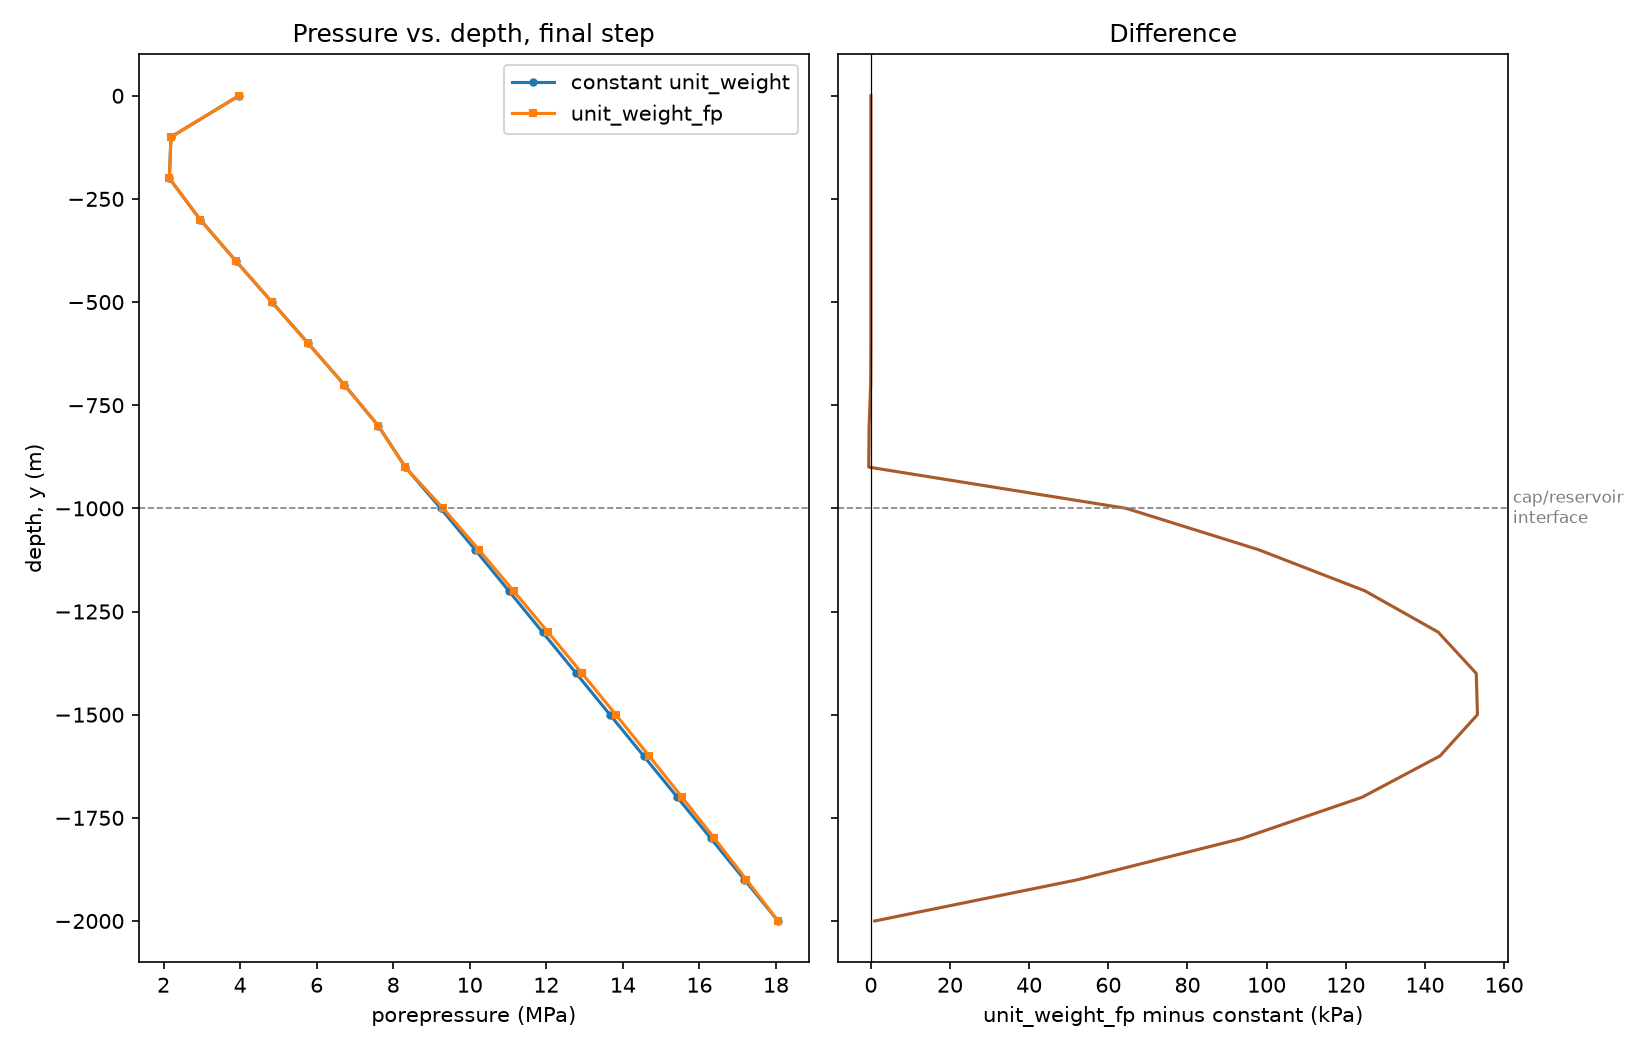
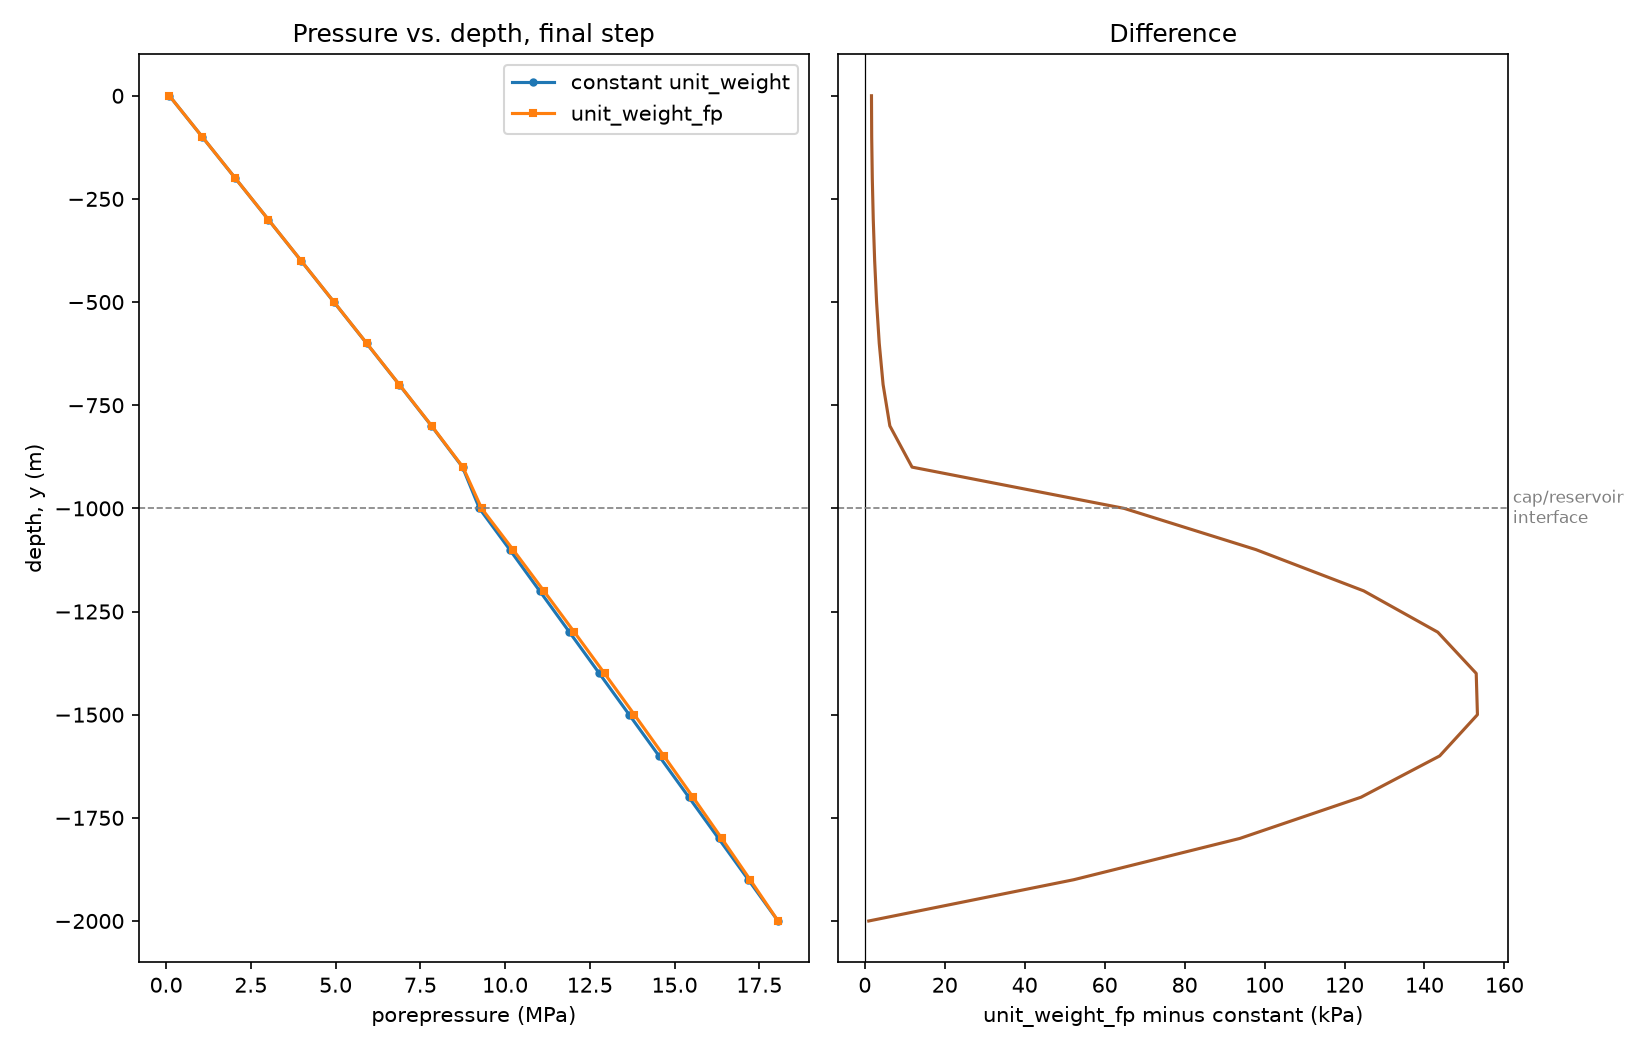
Use realistic cap material properties, rewrite Results accordingly
Replace the cap's deliberately exaggerated properties with realistic
geologic values: permeability 1E-16 m^2 (was 1E-19), porosity 0.1 (was
0.05), isotropic thermal conductivity 2.5 W/m/K (was anisotropic,
vertical exaggerated to 10), and rock specific heat 800 J/kg/K (was
80, now matching the reservoir). The reservoir's own permeability
stays at 1E-15 m^2 (a modest 10x below typical, kept so the well's
pressure influence doesn't diffuse across the whole domain within the
runnable 5-year timescale).

heat_transfer_coefficient goes from 0.01 to 1.5 W/m^2/K, a realistic
casing-resistance estimate. At the old, deliberately very low cap
permeability, any h above ~0.1 thermally pressurized the trapped pore
fluid and diverged; at this permeability that specific failure mode no
longer binds, but a separate numerical wall exists around day 156 of
the run above h~1.5-1.8 (confirmed by bisection; raising nl_max_its
does not rescue it), so 1.5 stays just below it.

The realistic cap permeability has a much bigger consequence than
either of the above: it lets the well's own pressure drawdown drive
real advective flow up through the cap, which now dominates the
thermal response there (~67K surface rise over 5 years, vs ~6K before)
far more than the conductive kernel's own contribution (~6.6% of
advected heat). Rewrote the Results section, the schematic's cap
label, and the class doc's h discussion to reflect this - the cased
[…]

diff --git a/examples/geothermal_wellbore/make_schematic.py b/examples/geothermal_wellbore/make_schematic.py
@@ -27,7 +27,7 @@ def main():
     ax.add_patch(patches.Rectangle((0, Y_BOTTOM), R_MAX, Y_INTERFACE - Y_BOTTOM,
                                     facecolor="#a3c4d8", edgecolor="none", zorder=0))
     ax.text(R_MAX * 0.38, (Y_SURFACE + Y_INTERFACE) / 2,
-            "cap\n(low permeability,\nexaggerated thermal response)",
+            "cap\n(realistic properties:\nk=1E-16 m^2, k_th=2.5 W/m/K)",
             ha="center", va="center", fontsize=10)
     ax.text(R_MAX * 0.5, Y_INTERFACE - 150, "reservoir\n(normal geologic media)",
             ha="center", va="center", fontsize=10)

diff --git a/doc/content/examples/geothermal_wellbore.md b/doc/content/examples/geothermal_wellbore.md
@@ -88,16 +88,19 @@ depending on whether mass can actually cross the well wall there:
   [PorousFlowCasedBoreholeHeatExchange.md] for why.
 
   $h$ represents the casing's own thermal resistance (steel, cement, the in-well film), not the
-  formation's, which is already resolved by the mesh, and is deliberately kept small
-  (0.01 $\mathrm{W/m^2/K}$, well below a nominal casing-resistance estimate) for a reason
-  specific to this example: the cap's permeability is set very low precisely so the well's
-  pressure influence stays confined to a small halo, and heat injected into a low-permeability
-  rock thermally pressurizes the trapped pore fluid instead of relieving via flow. Above roughly
-  0.1 $\mathrm{W/m^2/K}$ that pressurization runs away and the simulation fails to converge,
-  regardless of how small a fraction of the advected heat rate $Q_{\mathrm{adv}}$ it represents.
-  The resulting conductive exchange is real but small - about 0.08% of the advected heat rate -
-  a real effect, not a dominant one; see [geothermal_wellbore_cap_temperature_fig] for where it
-  shows up.
+  formation's, which is already resolved by the mesh, and is set to a realistic estimate of
+  1.5 $\mathrm{W/m^2/K}$. An earlier revision of this example used a deliberately very low cap
+  permeability, under which heat injected here could not relieve via flow and instead thermally
+  pressurized the trapped pore fluid, running away above $h \sim 0.1$; at the realistic cap
+  permeability used now (see [#model-setup]), that specific failure mode no longer binds. A
+  separate numerical limit remains, unrelated to pressurization: above roughly
+  $h \sim 1.5\text{-}1.8\ \mathrm{W/m^2/K}$, the simulation stalls around day 156 of the run
+  (confirmed by bisection; raising the solver's iteration limit does not rescue it), so 1.5 stays
+  just below that wall. The resulting conductive exchange totals about 6.6% of the advected heat
+  rate $Q_{\mathrm{adv}}$ over the run - real, but secondary to a much larger effect: at this
+  permeability, the cap itself is porous enough for the well's own pressure drawdown to drive
+  significant advective flow up through it, which dominates the temperature changes shown in
+  [#results] far more than this conductive term does.
 
 ## Model setup
 
@@ -136,14 +139,16 @@ The core physics is handled by the [PorousFlowFullySaturated.md] Action:
 
 !listing examples/geothermal_wellbore/model_common.i block=PorousFlowFullySaturated
 
-The cap's permeability and thermal properties are deliberately set well outside typical geologic
-ranges, and the reservoir's permeability is likewise lowered - a deliberate idealization for
-clarity, not a claim about real rock properties. With realistic values, the well's influence
-would either spread across nearly the entire domain (a highly permeable reservoir lets pressure
-diffuse over kilometers within a few years) or take millennia to become visible at all (real
-caprock's thermal diffusivity is far too low to show any signal on a human timescale). The values
-below keep the well's influence confined to a visible halo a few hundred meters across, on a
-runnable 5-year timescale:
+Cap and reservoir properties are realistic geologic values - permeability ~1E-16 m$^2$ for the
+cap and ~1E-15 m$^2$ for the reservoir, isotropic thermal conductivity ~2.5 $\mathrm{W/m/K}$,
+and a rock specific heat of 800 $\mathrm{J/kg/K}$ in both layers - not idealized for visual
+effect the way an earlier revision of this example set them. The reservoir's permeability is
+still kept about 10x below a typical ~1E-14 m$^2$ value, a modest, deliberate choice so the
+well's pressure influence doesn't diffuse across the whole domain within the runnable 5-year
+timescale; the cap's permeability is fully realistic. One direct consequence, visible throughout
+[#results]: a realistically-permeable cap lets the well's own pressure drawdown drive real
+advective flow up through it, which turns out to dominate the cap's thermal response far more
+than either the conductive heat exchange described above or simple conduction alone would:
 
 !listing examples/geothermal_wellbore/model_common.i block=Materials
 
@@ -184,10 +189,15 @@ it removes the need to hand-derive and re-check that constant every time a well'
 
 [geothermal_wellbore_pressure_fig] shows exactly where that difference comes from: pressure vs.
 depth along the well, at the end of the run, for both treatments, plus their difference. The two
-profiles agree almost exactly through the cased section (y=0 to -1000, no flow enters there
-either way), then diverge smoothly through the open interval, reaching about 150 kPa at its
-midpoint before converging back to zero at the well bottom - where `bottom_p_or_t` pins both
-treatments to the same value by construction, regardless of the density model used above it.
+profiles diverge smoothly through the open interval, reaching about 153 kPa at its midpoint
+before converging back to zero at the well bottom - where `bottom_p_or_t` pins both treatments
+to the same value by construction, regardless of the density model used above it. Through the
+cased section (y=0 to -1000) the difference no longer sits at zero the way it would in a purely
+diffusive cap: it grows smoothly from about 1.7 kPa at the surface to about 65 kPa at the
+cap/reservoir interface, because the cap's realistic permeability lets some of the open
+interval's pressure-treatment difference propagate up through it via the same advective flow
+discussed in [#model-setup] and shown in [geothermal_wellbore_temperature_depths_fig] - not
+because any mass crosses the well wall there, which it still does not.
 
 !media geothermal_wellbore_pressure_depth.png
   id=geothermal_wellbore_pressure_fig
@@ -196,13 +206,20 @@ treatments to the same value by construction, regardless of the density model us
   difference vs. depth.
 
 [geothermal_wellbore_temperature_depths_fig] shows how temperature changes over time at a series
-of depths along the well axis, for the `unit_weight_fp` treatment. At the surface (y=0m, in the
-cap, directly above the well but outside its cased section) temperature rises by more than 6 K
-over 5 years, as the cap's exaggerated thermal diffusivity carries heat up from the open interval
-below. At the well bottom (y=-2000m, in the open interval) temperature falls by about 2.5 K, as
-continuous heat extraction outpaces replenishment from the surrounding reservoir. The
-intermediate depths (y=-200 to -1500m) change by well under 0.5 K over the same period - the
-thermal signal is concentrated at the two ends of the column, not spread evenly along it.
+of depths along the well axis, for the `unit_weight_fp` treatment, and the picture is very
+different from a purely conductive cap: temperature rises substantially throughout the cased
+section, not just near its two ends. At the surface (y=0m) it rises by about 67 K over 5 years;
+at y=-200, -400, -600 and -800m the rises are about 58, 50, 42 and 34 K respectively - a smooth
+gradient, largest near the surface and decreasing with depth through the cap. This is not the
+new conductive heat exchange at work (which totals only about 6.6% of the advected heat rate):
+it is the realistically-permeable cap itself allowing the well's pressure drawdown to pull fluid,
+and the heat it carries, up through the cased section by advection - a genuinely different, and
+much larger, mechanism than the small conductive term derived in [#borehole-heat-exchange]. Right
+at the cap/reservoir interface (y=-1000) the change is a much more modest 1.2 K, and below it -
+in the open interval and reservoir - the picture reverts to what drives the mass/heat extraction
+comparison above: temperature at the well bottom (y=-2000m) falls by about 2.4 K as continuous
+heat extraction outpaces replenishment from the surrounding reservoir, while y=-1500m barely
+changes at all.
 
 !media geothermal_wellbore_temperature_depths.png
   id=geothermal_wellbore_temperature_depths_fig
@@ -212,7 +229,8 @@ thermal signal is concentrated at the two ends of the column, not spread evenly 
 
 [geothermal_wellbore_halo_fig] shows the temperature at the cap/reservoir interface (right where
 the well's open interval begins) as a function of radius, at the end of the run - a real,
-well-centered thermal halo around the well, roughly 100-300m across, for both treatments.
+well-centered thermal halo around the well for both treatments, peaking at about 404.3 K against
+a 403.2 K background and extending to about 60m radius.
 
 !media geothermal_wellbore_temperature_halo.png
   id=geothermal_wellbore_halo_fig
@@ -220,17 +238,21 @@ well-centered thermal halo around the well, roughly 100-300m across, for both tr
   caption=Temperature vs. radius at the cap/reservoir interface, final timestep.
 
 [geothermal_wellbore_cap_temperature_fig] shows the same kind of radial profile, but strictly
-*inside* the cap (y=-500, `unit_weight_fp` treatment only) and at a handful of times through the
-run, rather than a single final snapshot at the cap/reservoir boundary. The profile is flat at
-the undisturbed background (353.15 K, the geothermal gradient's value at this depth) at early
-times, then a small, growing elevation appears within about 50m of the well as the cased
-section's conductive heat exchange (and whatever advective signal has diffused up from the open
-interval below) warms the near-well cap over the 5-year run - visibly real, but consistent with
-[#borehole-heat-exchange]'s ~0.08% figure: a few hundredths of a kelvin, not the multi-kelvin
-halo already visible at the cap/reservoir interface in [geothermal_wellbore_halo_fig].
+*inside* the cap, 500m below the surface, and at a handful of times through the run, rather than
+a single final snapshot at the cap/reservoir boundary. The profile is flat at the undisturbed
+background (353.15 K, the geothermal gradient's value at this depth) at early times, then a
+sharp, growing spike develops right at the well - reaching about 399 K by the end of the run,
+46 K above background, and decaying back to background within about 20m. This is the same
+advective mechanism visible in [geothermal_wellbore_temperature_depths_fig], now shown as a
+function of radius rather than time: hot fluid drawn up along the well axis through the
+realistically-permeable cap, not the new conductive heat exchange kernel, whose own contribution
+(reported separately via `wellbore_heat_point_flux_out`, not distinguishable from the advective
+signal in a plain temperature snapshot like this one) is an order of magnitude smaller.
 
 !media geothermal_wellbore_cap_temperature_radial.png
   id=geothermal_wellbore_cap_temperature_fig
   style=width:65%;margin-left:auto;margin-right:auto;
-  caption=Temperature vs. radius at mid-cap depth (y=-500), at several times through the run,
-  `unit_weight_fp` treatment.
+  caption=Temperature vs. radius at 500m depth within the cap, at several times through the
+  run, the `unit_weight_fp` treatment.
+
+

diff --git a/doc/content/source/dirackernels/PorousFlowCasedBoreholeHeatExchange.md b/doc/content/source/dirackernels/PorousFlowCasedBoreholeHeatExchange.md
@@ -57,14 +57,16 @@ the casing.
 $h$ is nominally the *casing-side* resistance only (the in-well convective film, the steel
 casing, and the cement sheath), referenced to the casing outer radius - not an overall
 wellbore-to-far-field heat transfer coefficient, since the formation's own conductive resistance
-is already resolved by the mesh. In practice, in this example, $h$ is capped far below any such
-physical estimate by the cap's own deliberately very low permeability (chosen to keep the well's
-pressure influence confined - see [geothermal_wellbore.md]): heat injected into the cap cannot
-relieve via flow and instead thermally pressurizes the pore fluid there, and above roughly
-$h=0.1\ \mathrm{W/m^2/K}$ that pressurization runs away and the solve diverges within the first
-simulated day, regardless of how small a fraction of the advected heat rate it represents. The
-value used, 0.01, was found by bisection to run stably for the full 5-year simulation; the
-resulting effect is real but small (about 0.08% of the advected `well_heat_rate`).
+is already resolved by the mesh. In this example, the cap's permeability is realistic (see
+[geothermal_wellbore.md]), so $h$ can use a realistic estimate too: 1.5 $\mathrm{W/m^2/K}$. A
+separate numerical limit, unrelated to any thermal-pressurization concern, remains around
+$h=1.5\text{-}1.8\ \mathrm{W/m^2/K}$: above it the solve stalls near day 156 of the 5-year run
+(confirmed by bisection; raising the solver's iteration limit does not rescue it), so 1.5 stays
+just below that wall. The resulting conductive exchange totals about 6.6% of the advected
+`well_heat_rate` - real, but small next to a much larger effect: at this permeability, the cap
+itself is porous enough for the well's own pressure drawdown to drive substantial advective flow
+up through it, which dominates the temperature changes this example actually shows far more than
+this conductive term does.
 
 As with `PorousFlowPeacemanBorehole`, the Jacobian only differentiates the local (same-point)
 dependence of the residual on the current iterate; the wellbore temperature profile's dependence
